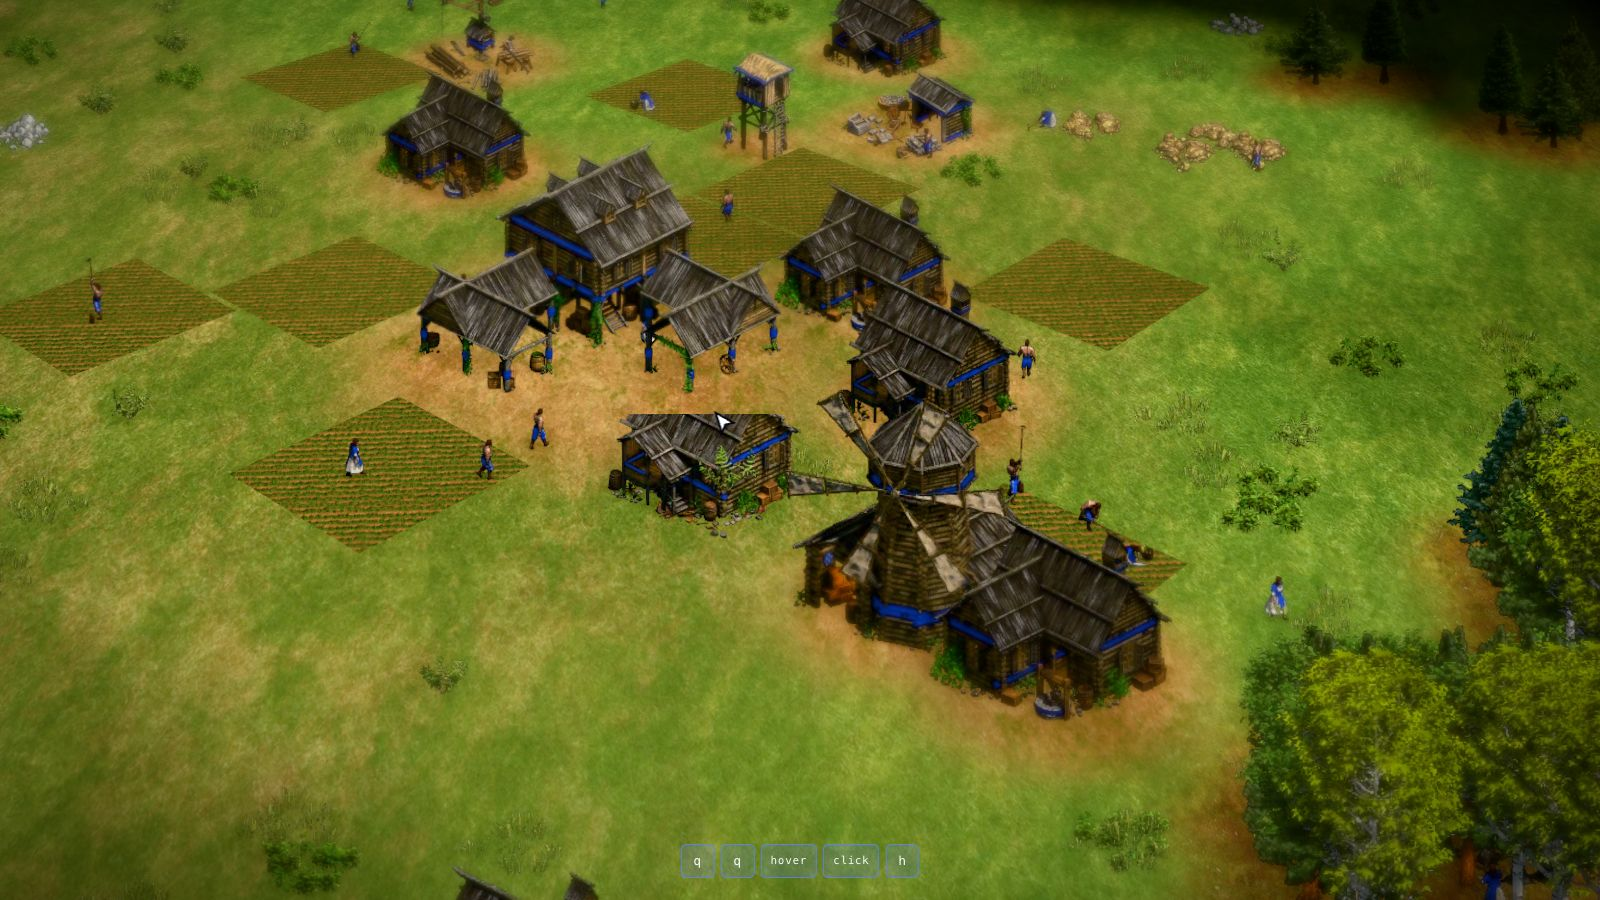
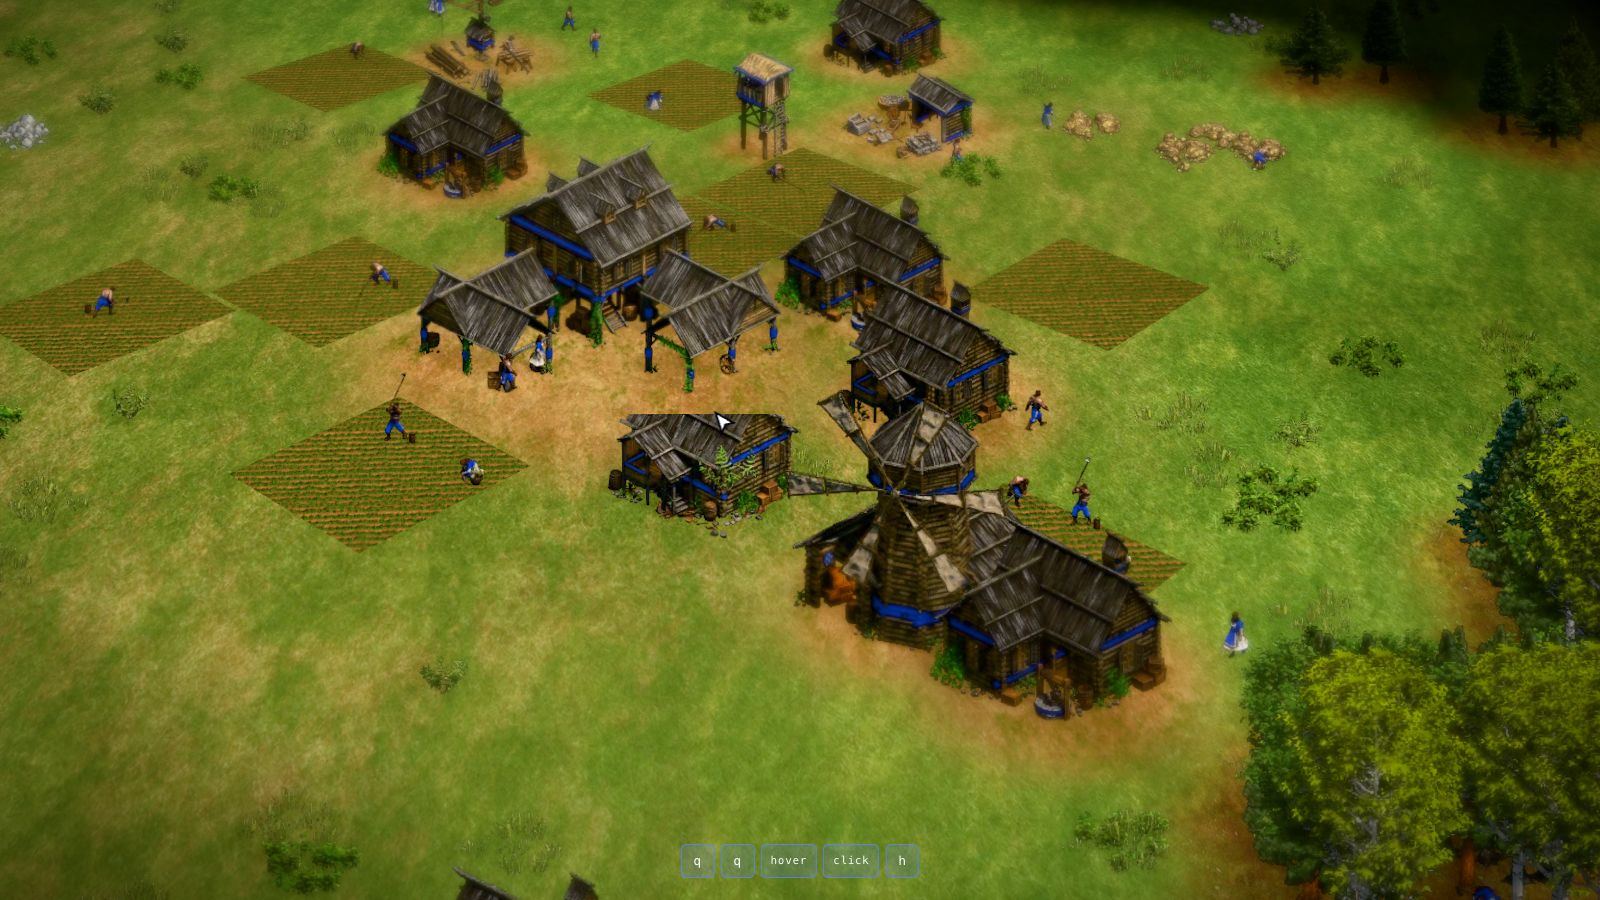
fix(landing): villagers face where they walk and step with the ground
The 16 facings of AoE2 unit sprites run clockwise on screen from facing right;
the scene read them mirrored, so villagers walking left or right faced the
other way and workers faced away from their trees, mines and fields.

Walkers also swung back and forth on a sine, slowing to a stop and stepping in
place as they reversed. They now walk out and back along a straight route that
avoids buildings, fields, trees and mines, at a steady pace, standing a moment
at each end, and their walk frames advance with the distance covered. Every
animation now samples its frames over the whole cycle, so the loop closes
without a jump.

diff --git a/apps/landing/src/components/walkthrough/scene/world.ts b/apps/landing/src/components/walkthrough/scene/world.ts
@@ -47,11 +47,12 @@ function noise(x: number, y: number) {
   return a + (b - a) * u + (c - a) * v + (a - b - c + d) * u * v;
 }
 
-/** AoE2 facing (0..15, counter-clockwise from screen-left) for a ground direction. */
+/** AoE2 facing for a ground direction: the game stores 16 facings clockwise on
+ * screen from facing right (0), through facing the viewer (4), left (8) and away (12). */
 export function facingFor(dx: number, dz: number) {
   // Ground to screen: right is x - z, down is (x + z) / 2.
   const angle = Math.atan2((dx + dz) / 2, dx - dz);
-  return ((Math.round((Math.PI - angle) / (Math.PI / 8)) % 16) + 16) % 16;
+  return ((Math.round(angle / (Math.PI / 8)) % 16) + 16) % 16;
 }
 
 /** The atlas keeps four facings for work animations; pick the closest. */
@@ -264,7 +265,34 @@ export function createWorld(layout: Layout, textures: WorldTextures, meta: Sprit
     }
     return { place: best as Placement | null, distance: bestD };
   };
-  type Worker = { handle: SpriteHandle; base: string; x: number; z: number; walk: boolean; heading: number; phase: number; speed: number };
+  // Walkers go out and back along a clear straight route at a steady pace, stand a
+  // moment at each end, and step through the walk cycle by distance covered, so their
+  // feet keep pace with the ground.
+  const WALK_SPEED = 0.85; // tiles per second
+  const STRIDE = 1.3; // tiles per full walk cycle
+  const PAUSE = 1.1; // seconds standing at each end
+  type Route = { ax: number; az: number; bx: number; bz: number; length: number; offset: number };
+  type Worker = { handle: SpriteHandle; base: string; x: number; z: number; walk: boolean; route: Route | null; phase: number };
+
+  // Routes avoid buildings, fields, trees and mines; prefer heading to or from the
+  // Town Center, as villagers carrying goods do.
+  const obstacles = layout.placements.filter((p) => p.kind === "building" || p.kind === "farm" || p.kind === "tree" || p.kind === "mine");
+  const blockedAt = (x: number, z: number) =>
+    obstacles.some((o) => {
+      const reach = o.kind === "tree" ? 0.55 : o.kind === "mine" ? 0.9 : o.size / 2 + 0.35;
+      return Math.abs(x - o.x) < reach && Math.abs(z - o.z) < reach;
+    });
+  const routeFrom = (x: number, z: number, seed: number): Route | null => {
+    const home = Math.atan2(layout.tc.z - z, layout.tc.x - x);
+    for (let k = 0; k < 16; k++) {
+      const angle = home + (k % 2 ? 1 : -1) * Math.ceil(k / 2) * (Math.PI / 8);
+      const length = 2.2 + (seed % 5) * 0.25;
+      let clear = true;
+      for (let d = 0.4; d <= length && clear; d += 0.3) clear = !blockedAt(x + Math.cos(angle) * d, z + Math.sin(angle) * d);
+      if (clear) return { ax: x, az: z, bx: x + Math.cos(angle) * length, bz: z + Math.sin(angle) * length, length, offset: seed * 1.7 };
+    }
+    return null;
+  };
   const workers: Worker[] = layout.placements
     .filter((p) => p.kind === "villager")
     .map((v, i) => {
@@ -278,7 +306,8 @@ export function createWorld(layout: Layout, textures: WorldTextures, meta: Sprit
       const facing = nearestWorkFacing(facingFor(Math.cos(towards), Math.sin(towards)));
       const base = task === "walk" ? `vil${gender}_walk` : `vil${gender}_${task}_d${facing}`;
       const handle = sprites.add(task === "walk" ? `${base}_d0` : base, v.x, 0, v.z, i * 3);
-      return { handle, base, x: v.x, z: v.z, walk: task === "walk", heading: (i * 2.399) % (Math.PI * 2), phase: i * 0.77, speed: 0.5 + (i % 3) * 0.12 };
+      const route = task === "walk" ? routeFrom(v.x, v.z, i) : null;
+      return { handle, base, x: v.x, z: v.z, walk: route !== null, route, phase: i * 0.77 };
     });
   const animals = layout.placements
     .filter((p) => p.kind === "animal")
@@ -304,13 +333,24 @@ export function createWorld(layout: Layout, textures: WorldTextures, meta: Sprit
     wallMaterial.color.setScalar(s.light);
 
     for (const w of workers) {
-      w.handle.frame = Math.floor(time * FPS + w.phase * 10);
-      if (!w.walk) continue;
-      // About a tile a second at the middle of the beat, as villagers walk.
-      const t = Math.sin(time * 0.6 * w.speed + w.phase);
-      const dir = Math.cos(time * 0.6 * w.speed + w.phase) >= 0 ? 1 : -1;
-      w.handle.anchor.set(w.x + Math.cos(w.heading) * t * 1.8, 0, w.z + Math.sin(w.heading) * t * 1.8);
-      w.handle.name = `${w.base}_d${facingFor(Math.cos(w.heading) * dir, Math.sin(w.heading) * dir)}`;
+      const r = w.route;
+      if (!w.walk || !r) {
+        w.handle.frame = Math.floor(time * FPS + w.phase * 10);
+        continue;
+      }
+      // One loop: walk out, stand, walk back, stand.
+      const leg = r.length / WALK_SPEED;
+      const loop = 2 * (leg + PAUSE);
+      const t = (time + r.offset) % loop;
+      const out = t < leg + PAUSE;
+      const u = out ? t : t - leg - PAUSE;
+      const along = Math.min(u, leg) * WALK_SPEED;
+      const [fx, fz, tx, tz] = out ? [r.ax, r.az, r.bx, r.bz] : [r.bx, r.bz, r.ax, r.az];
+      const f = along / r.length;
+      w.handle.anchor.set(fx + (tx - fx) * f, 0, fz + (tz - fz) * f);
+      w.handle.name = `${w.base}_d${facingFor(tx - fx, tz - fz)}`;
+      // Stepping: frames advance with distance; standing shows the first frame.
+      w.handle.frame = u < leg ? Math.floor((along / STRIDE) * 12) % 12 : 0;
     }
     for (const a of animals) a.handle.frame = Math.floor(time * 8 + a.phase * 5);
 
@@ -335,7 +375,10 @@ export function createWorld(layout: Layout, textures: WorldTextures, meta: Sprit
     },
     walk() {
       if (w.walk) return;
+      const route = routeFrom(w.x, w.z, Math.round(w.phase * 13));
+      if (!route) return;
       w.walk = true;
+      w.route = route;
       w.base = `${w.base.slice(0, 4)}_walk`;
     },
   }));

diff --git a/apps/landing/src/components/walkthrough/scene/index.ts b/apps/landing/src/components/walkthrough/scene/index.ts
@@ -329,7 +329,7 @@ export async function mountScene({ view, stage, assets }: MountOptions): Promise
       debugPose = p;
     },
     info() {
-      return { calls: renderer.info.render.calls, triangles: renderer.info.render.triangles, mindScale, gameSize, poses, followed: followed.length };
+      return { calls: renderer.info.render.calls, triangles: renderer.info.render.triangles, mindScale, gameSize, poses, followed: followed.map((t) => [t.anchor.x, t.anchor.z, t.walking]) };
     },
   };
 

diff --git a/apps/landing/scripts/build_walkthrough_sprites.py b/apps/landing/scripts/build_walkthrough_sprites.py
@@ -110,10 +110,12 @@ def still(
 def animation(graphics: Path, file: str, name: str, facings: list[int] = FACINGS) -> dict[str, list[Sprite]]:
     decoded = read_sld(graphics / f"{file}_x1.sld")
     per = len(decoded) // 16
-    step = max(1, per // FRAMES_PER_ANIMATION)
+    # Frames spread evenly over the whole cycle, so the loop closes without a jump.
+    count = min(FRAMES_PER_ANIMATION, per)
+    picks = [round(k * per / count) for k in range(count)]
     out = {}
     for facing in facings:
-        sprites = [compose(decoded[facing * per + i]) for i in range(0, per, step)][:FRAMES_PER_ANIMATION]
+        sprites = [compose(decoded[facing * per + i]) for i in picks]
         out[f"{name}_d{facing}"] = [s for s in sprites if s]
     return out
 
